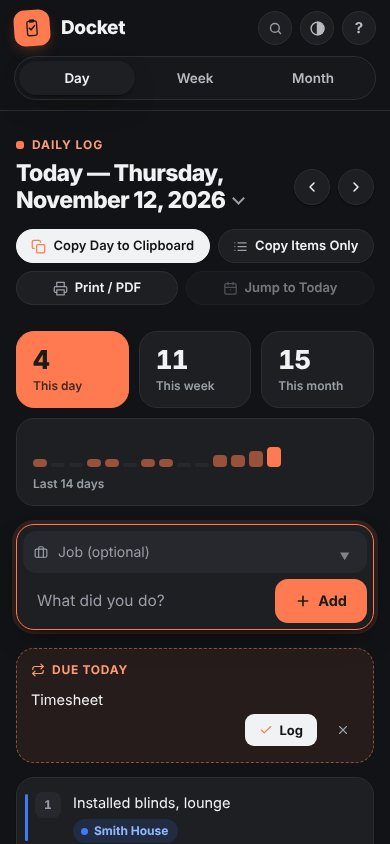
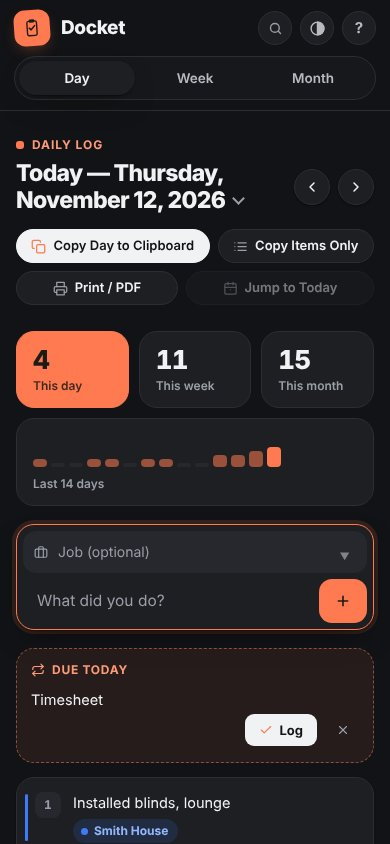
Docket 2.7.2: UAT, UI and UX audit fixes
- Skip to the log link; activity bars out of the Tab order.
- Phones: open at the top without grabbing focus; Add shows just +.
- 24px minimum tap targets: reorder buttons, week job tags, month icon.
- Friendly day names (Thu 12 Nov) in messages and hints.
- No stray dot on an empty month in Recent days.
- New usability test suite; docs and guide updated.

Claude-Session: https://claude.ai/code/session_01H9fPMwvFvgNvqPDu1kdh6L

Changed region(s): [[0.6769, 0.6777, 0.8923, 0.7393]]

diff --git a/src/app.js b/src/app.js
@@ -348,7 +348,13 @@
   var DOW = ["Sun", "Mon", "Tue", "Wed", "Thu", "Fri", "Sat"];
   var LONGDOW = ["Sunday", "Monday", "Tuesday", "Wednesday", "Thursday", "Friday", "Saturday"];
   var MON = ["Jan", "Feb", "Mar", "Apr", "May", "Jun", "Jul", "Aug", "Sep", "Oct", "Nov", "Dec"];
-  function shortDow(iso) { return DOW[dateObj(iso).getDay()]; }
+  // "Thu 12 Nov" (with the year when it isn't this one): how a day is named
+  // in messages and hints, never the raw 2026-11-12.
+  function niceDay(iso) {
+    var d = dateObj(iso);
+    return DOW[d.getDay()] + " " + d.getDate() + " " + MON[d.getMonth()] +
+      (d.getFullYear() !== new Date().getFullYear() ? " " + d.getFullYear() : "");
+  }
 
   // Recurring schedules, weeks shown Monday first. Labels read naturally
   // ("Every Friday", "Weekdays") and are also what the CSV carries.
@@ -483,8 +489,12 @@
   function entryCount(iso) { return (data[iso] || []).length; }
 
   // One clickable bar per day; heights scale to the busiest day shown.
+  // A mouse and touch shortcut only: the bars stay out of the Tab order and
+  // away from screen readers, since Recent days, the arrows and the date
+  // picker reach every day already (14 tiny tab stops helped nobody).
   function fillBars(strip, days, currentIso, maxH) {
     strip.innerHTML = "";
+    strip.setAttribute("aria-hidden", "true");
     var max = 1;
     days.forEach(function (d) { max = Math.max(max, entryCount(d)); });
     days.forEach(function (d) {
@@ -492,9 +502,10 @@
       var b = document.createElement("button");
       b.className = (n > 0 ? "hit" : "") + (d === currentIso ? " cur" : "");
       b.style.height = (n > 0 ? Math.round(4 + (maxH - 4) * n / max) : 3) + "px";
-      b.dataset.tip = shortDow(d) + " " + d + " — " +
+      b.dataset.tip = niceDay(d) + " — " +
         (n === 0 ? "no entries" : n + (n === 1 ? " entry" : " entries")) + " · click to open";
       b.setAttribute("aria-label", "Open " + prettyDate(d));
+      b.tabIndex = -1;
       b.addEventListener("click", function () {
         currentDate = d;
         editingId = null;
@@ -988,7 +999,7 @@
           t.textContent = it.text;
           var b = document.createElement("button");
           b.appendChild(icon("send"));
-          b.dataset.tip = sendTip + " (" + shortDow(currentDate) + " " + currentDate + ")";
+          b.dataset.tip = sendTip + " (" + niceDay(currentDate) + ")";
           b.setAttribute("aria-label", sendTip + ": " + it.text);
           b.addEventListener("click", function () { sendQueueItem(kind, it.id, currentDate); });
           li.appendChild(g);
@@ -1425,7 +1436,7 @@
       toggle.appendChild(document.createTextNode(monthLabel(key + "-01")));
       var badge = document.createElement("span");
       badge.className = "mbadge";
-      badge.textContent = groups[key].filter(function (d) { return (data[d] || []).length > 0; }).length || "·";
+      badge.textContent = groups[key].filter(function (d) { return (data[d] || []).length > 0; }).length || "";
       toggle.appendChild(badge);
       toggle.dataset.tip = entryTotal + " entr" + (entryTotal === 1 ? "y" : "ies") + " — click to " + (open ? "fold" : "unfold") + " the month";
       toggle.addEventListener("click", function () {
@@ -1811,7 +1822,7 @@
     if (editingId === id) editingId = null;
     save();
     render();
-    toast("Moved to " + shortDow(toDay) + " " + toDay, function () {
+    toast("Moved to " + niceDay(toDay), function () {
       removeEntryById(toDay, id);
       if (!data[f.day]) data[f.day] = [];
       data[f.day].splice(Math.min(f.index, data[f.day].length), 0, f.item);
@@ -1910,13 +1921,13 @@
     if (!item) return;
     if (!data[day]) data[day] = [];
     var job = jobById(item.job) ? item.job : null;
-    if (loggedOn(day, item)) { toast("Already logged on " + shortDow(day) + " " + day); return; }
+    if (loggedOn(day, item)) { toast("Already logged on " + niceDay(day)); return; }
     var entry = { id: newId(), text: item.text };
     if (job) entry.job = job;
     data[day].push(entry);
     save();
     render();
-    toast("Logged on " + shortDow(day) + " " + day + " — kept in Recurring", function () {
+    toast("Logged on " + niceDay(day) + " — kept in Recurring", function () {
       removeEntryById(day, entry.id);
       save();
       render();
@@ -2019,7 +2030,7 @@
     saveWishlist();
     save();
     render();
-    toast("Moved to " + shortDow(day) + " " + day, function () {
+    toast("Moved to " + niceDay(day), function () {
       removeEntryById(day, entry.id);
       wishlist.splice(Math.min(i, wishlist.length), 0, item);
       saveWishlist();
@@ -2247,7 +2258,7 @@
       var send = document.createElement("button");
       send.className = "wbtn send";
       send.appendChild(icon("send"));
-      send.dataset.tip = cfg.sendTitle + " (" + shortDow(currentDate) + " " + currentDate + ")";
+      send.dataset.tip = cfg.sendTitle + " (" + niceDay(currentDate) + ")";
       send.setAttribute("aria-label", cfg.sendTitle);
       send.addEventListener("click", function () { sendQueueItem(kind, item.id, currentDate); });
 
@@ -3802,7 +3813,9 @@
 
   if (!storageBlocked && !readStore(HELP_KEY)) {
     openHelp(); // first run: show the guide
-  } else {
+  } else if (!window.matchMedia("(pointer: coarse)").matches) {
+    // ready to type on a computer; on a touch screen the page opens at the
+    // top instead of jumping down to the box (and no keyboard pops up)
     $("newItem").focus();
   }
 })();

diff --git a/tests/usability.spec.js b/tests/usability.spec.js
@@ -1,0 +1,82 @@
+// Usability: keyboard paths, tap targets, phone first impressions, and how
+// days are named in messages. Each check guards a finding from the
+// UAT / UI / UX audit.
+"use strict";
+
+const { test, devices } = require("@playwright/test");
+const { check, iso, seed } = require("./helpers");
+
+const T = iso(0);
+function seedData() {
+  return {
+    "track.jobs.v1": [{ id: "j1", text: "Office fit-out — second floor reception", color: 1 }],
+    "track.tasks.v1": { [T]: [{ id: "a", text: "Quoted the office fit-out, partitions and ceiling grid", job: "j1" }, { id: "b", text: "Admin" }] },
+    "track.wishlist.v1": [{ id: "w", text: "Order paint" }],
+    "track.recurring.v1": [{ id: "r", text: "Site safety check", job: "j1", days: [new Date().getDay()] }]
+  };
+}
+
+test.describe("on a computer", () => {
+  test.use({ viewport: { width: 1360, height: 900 } });
+
+  test("keyboard users can skip straight to the log, past fewer stops", async ({ page }) => {
+    await seed(page, seedData());
+    await page.goto("/");
+    const first = await page.evaluate(() => document.querySelector("body a[href], body button, body input").className);
+    check(first === "skiplink", "“Skip to the log” is the first thing Tab reaches");
+    await page.focus(".skiplink");
+    check(await page.locator(".skiplink").isVisible(), "…and it shows when focused");
+    await page.keyboard.press("Enter");
+    await page.keyboard.press("Tab");
+    check(await page.evaluate(() => document.activeElement.id) === "prevDay", "after skipping, Tab lands on the log's own controls");
+    check(await page.locator("#actStrip button[tabindex='-1']").count() === 14, "the 14 activity bars aren't Tab stops (Recent days and the arrows cover them)");
+    check(await page.locator("#actStrip").getAttribute("aria-hidden") === "true", "…nor read out twice");
+  });
+
+  test("messages name days the way people say them", async ({ page }) => {
+    await seed(page, seedData());
+    await page.goto("/");
+    const row = page.locator("#itemList li.entry", { hasText: "Admin" });
+    await row.hover();
+    await row.locator(".icon.edit").click();
+    await page.fill("li.editing input.edate", iso(-1));
+    await page.click("li.editing .save");
+    const msg = await page.textContent("#toast");
+    const d = new Date(iso(-1) + "T12:00");
+    check(msg.includes("Moved to " + ["Sun", "Mon", "Tue", "Wed", "Thu", "Fri", "Sat"][d.getDay()] + " " + d.getDate() + " "), "“Moved to Wed 11 Nov”, not a raw date: " + msg);
+    check(!/\d{4}-\d{2}-\d{2}/.test(msg), "no YYYY-MM-DD in the message");
+    check(!/\d{4}-\d{2}-\d{2}/.test(await page.locator("#recList .wbtn.send").first().getAttribute("data-tip")), "…or in the ↳ hints");
+  });
+
+  test("an empty month in Recent days shows no stray dot", async ({ page }) => {
+    await seed(page, {});
+    await page.goto("/");
+    check((await page.locator(".mtoggle .mbadge").first().textContent()) === "", "no “·” where a count would be");
+  });
+});
+
+// a touch phone; the preset's browser choice is dropped (it can't change per group)
+const { defaultBrowserType, ...phone } = devices["Pixel 7"]; // eslint-disable-line no-unused-vars
+
+test.describe("on a phone", () => {
+  test.use(phone);
+
+  test("opens at the top, keeps the entry box roomy, and every tap target is big enough", async ({ page }) => {
+    await seed(page, seedData());
+    await page.goto("/");
+    await page.waitForTimeout(300);
+    check(await page.evaluate(() => scrollY) === 0, "the page opens at the top, not scrolled to the entry box");
+    check(await page.evaluate(() => document.activeElement === document.body), "no box grabs focus (no keyboard popping up)");
+    check(!(await page.locator("#addBtn .al").isVisible()), "Add is just a +, so the box keeps its width");
+    check((await page.locator("#newItem").boundingBox()).width >= 180, "the entry box has room to type");
+
+    for (const view of ["day", "week"]) {
+      if (view === "week") await page.click('#viewTabs button[data-view="week"]');
+      const small = await page.evaluate(() => [...document.querySelectorAll('button:not([tabindex="-1"]), input')]
+        .filter((e) => { const r = e.getBoundingClientRect(); return r.width > 0 && r.height > 0 && (r.width < 24 || r.height < 24); })
+        .map((e) => String(e.className) + " " + Math.round(e.getBoundingClientRect().width) + "x" + Math.round(e.getBoundingClientRect().height)));
+      check(small.length === 0, `${view}: every control is at least 24×24 px (WCAG 2.2): ` + small.join(", "));
+    }
+    check(!(await page.evaluate(() => document.documentElement.scrollWidth > innerWidth)), "no sideways scroll");
+  });
+});

diff --git a/src/styles.css b/src/styles.css
@@ -117,6 +117,23 @@ body {
   -webkit-font-smoothing: antialiased;
   text-rendering: optimizeLegibility;
 }
+/* keyboard users can jump past the side panel straight to the log */
+.skiplink {
+  position: fixed;
+  top: 10px;
+  left: 10px;
+  z-index: 100;
+  padding: 10px 16px;
+  border-radius: 10px;
+  background: var(--ink);
+  color: var(--bg);
+  font-weight: 650;
+  text-decoration: none;
+  transform: translateY(-160%);
+}
+.skiplink:focus { transform: none; outline: 2px solid var(--accent); outline-offset: 2px; }
+.main:focus { outline: none; }
+
 ::selection { background: var(--accent); color: var(--accent-ink); }
 ::-webkit-scrollbar { width: 10px; height: 10px; }
 ::-webkit-scrollbar-track { background: transparent; }
@@ -391,7 +408,7 @@ input::placeholder { color: var(--ink-3); }
 .mtoggle .chev { font-size: 9px; width: 10px; transition: transform .18s var(--ease); }
 .mtoggle .chev.open { transform: rotate(90deg); }
 .mtoggle .mbadge { margin-left: auto; letter-spacing: 0; color: var(--ink-3); font-weight: 600; }
-.mgoto { display: grid; place-items: center; border: none; background: none; color: var(--ink-3); padding: 4px 7px; border-radius: var(--r-sm); opacity: 0; }
+.mgoto { display: grid; place-items: center; border: none; background: none; color: var(--ink-3); padding: 7px; border-radius: var(--r-sm); opacity: 0; }
 .mgoto .ic svg { width: 14px; height: 14px; }
 .mgroup:hover .mgoto, .mgoto:focus-visible { opacity: 1; }
 .mgoto:hover { color: var(--accent-text); }
@@ -948,7 +965,7 @@ ol.items li.entry .num:focus-visible { background: var(--accent); color: var(--a
   display: grid;
   place-items: center;
   width: 30px;
-  height: 22px;
+  height: 24px; /* the WCAG 2.2 minimum tap size */
   padding: 0;
   border: none;
   border-radius: 7px;
@@ -958,7 +975,7 @@ ol.items li.entry .num:focus-visible { background: var(--accent); color: var(--a
 }
 .mover button:active { background: var(--accent); color: var(--accent-ink); }
 .mover button:disabled { opacity: .3; }
-.wday ul li .mover button { width: 28px; height: 20px; }
+.wday ul li .mover button { width: 28px; height: 24px; }
 ol.items li.entry .body { flex: 1; min-width: 0; display: flex; align-items: center; gap: 10px; }
 ol.items li.entry .txt { flex: 1; min-width: 0; font-size: 14.5px; white-space: pre-wrap; word-break: break-word; }
 ol.items li.entry .body .jobpill { max-width: 45%; }
@@ -1191,7 +1208,7 @@ li.editing .editrow input.edate { padding: 0 10px; min-width: 0; }
 .wday ul li.mini.drop-before { box-shadow: inset 0 3px 0 var(--accent); }
 .wday ul li.mini.drop-after { box-shadow: inset 0 -3px 0 var(--accent); }
 .wday ul li > span:first-of-type, .wday ul li.mini .mt { flex: 1 1 auto; min-width: 0; word-break: break-word; }
-.wday ul li .jobpill { font-size: 11.5px; height: 22px; }
+.wday ul li .jobpill { font-size: 11.5px; height: 24px; }
 .wday ul li .icon { display: none; width: 28px; height: 28px; }
 .wday ul li:hover .icon, .wday ul li:focus-within .icon { display: grid; }
 .wday ul li.editing { display: block; padding: 10px; margin: 6px 0; border-top: none; }
@@ -1819,6 +1836,8 @@ ul.wishlist li.due .grip { color: var(--accent); }
   .foot-actions { padding-right: 76px; }
 }
 @media (max-width: 600px) {
+  .addcard #addBtn .al { display: none; } /* the + alone, so the entry box keeps its width */
+  .addcard #addBtn { padding: 0 16px; }
   .datenav .bigdate { font-size: 23px; }
   .datenav .bigdate::after { width: 7px; height: 7px; margin-left: 9px; vertical-align: 5px; }
   .datenav .arrow { width: 36px; height: 36px; }

diff --git a/src/index.html b/src/index.html
@@ -19,6 +19,7 @@
 <link rel="stylesheet" href="styles.css">
 </head>
 <body>
+<a class="skiplink" href="#main">Skip to the log</a>
 <header class="mast">
   <div class="brand">
     <span class="glyph" aria-hidden="true"><svg id="brandGlyph" viewBox="0 0 32 32" fill="none"><rect x="9" y="6" width="14" height="21" rx="2.5" stroke="currentColor" stroke-width="2"/><rect x="12" y="3.5" width="8" height="4.5" rx="1.5" fill="currentColor" stroke="none"/><path d="M12 16l2.6 2.6 5.4-5.8" stroke="currentColor" stroke-width="2.2" stroke-linecap="round" stroke-linejoin="round"/></svg></span>
@@ -97,7 +98,7 @@
     </section>
   </aside>
 
-  <main class="main">
+  <main class="main" id="main" tabindex="-1">
     <section class="hero">
       <p class="eyebrow" id="dayTitle"></p>
       <div class="datenav">
@@ -138,7 +139,7 @@
           <input type="text" id="newItem" placeholder="What did you do?" autocomplete="off" maxlength="1000" aria-label="What did you do?">
           <kbd class="enterhint">Enter ↵</kbd>
         </div>
-        <button id="addBtn" aria-label="Add entry"><span class="ic"><svg viewBox="0 0 24 24" fill="none" stroke="currentColor" stroke-width="2.4" stroke-linecap="round"><path d="M12 5v14M5 12h14"/></svg></span>Add</button>
+        <button id="addBtn" aria-label="Add entry"><span class="ic"><svg viewBox="0 0 24 24" fill="none" stroke="currentColor" stroke-width="2.4" stroke-linecap="round"><path d="M12 5v14M5 12h14"/></svg></span><span class="al">Add</span></button>
       </div>
 
       <section class="duebar" id="dueBar" aria-label="Recurring tasks due today" hidden></section>
@@ -248,7 +249,7 @@
       </ul>
 
       <h3><span class="tick">●</span> Keyboard shortcuts</h3>
-      <p>They work whenever you're not typing in a box — press <kbd>Esc</kbd> to leave one:</p>
+      <p>They work whenever you're not typing in a box — press <kbd>Esc</kbd> to leave one. Using <kbd>Tab</kbd>? The first stop is <b>Skip to the log</b>, straight past the side panel.</p>
       <ul>
         <li><kbd>/</kbd> or <kbd>Ctrl</kbd> <kbd>K</kbd> — <b>search</b> every entry, job, wishlist and recurring item; <kbd>↑</kbd> <kbd>↓</kbd> then <kbd>Enter</kbd> jumps to it</li>
         <li><kbd>Ctrl</kbd> <kbd>Z</kbd> — undo the last delete, move, link, archive, skip, import or clear, for a minute after it happens</li>

diff --git a/docs/ARCHITECTURE.md b/docs/ARCHITECTURE.md
@@ -115,6 +115,11 @@ by the renderer. Focus is restored explicitly afterwards (`refocusEntry`).
 - **Reordering is relative.** Moves are "put this entry before or after that
   one" (`placeEntry`), never an index. That's what makes the Job view, which
   shows only part of each day, reorder correctly.
+- **Name days as people say them.** Messages and hints use `niceDay`
+  ("Thu 12 Nov"), never the raw `YYYY-MM-DD` key.
+- **Tap targets are at least 24 × 24 px** on touch screens (WCAG 2.2), and
+  shortcuts that duplicate another route (the activity bars) stay out of the
+  Tab order. `usability.spec.js` checks both.
 - **Colours come from tokens.** Use the CSS custom properties (`--ink`,
   `--surface`, `--accent`, `--job`, …), never literal colours, so both themes
   and the job palette keep working. Muted text (`--ink-3`) is tuned to
@@ -246,7 +251,8 @@ real server in Chromium:
 | `organise` | archiving and restoring jobs, printable day, week, month and job reports |
 | `recurring` | recurring schedules, the Due today strip, schedules and archived jobs through CSV and JSON |
 | `autobackup` | automatic backup to a folder: writing, pruning, remembering, pausing, turning off |
-| `a11y` | axe-core, WCAG 2.1 A/AA, every view and dialog, both themes |
+| `a11y` | axe-core, WCAG 2.1 A/AA, every view and dialog (and the message bar), both themes |
+| `usability` | the skip link and Tab stops, friendly day names in messages, phone first view, 24 px tap targets |
 | `app` | server headers, CSP and compression, installability, offline use, the standalone file |
 
 The suites read as user-acceptance scripts: one realistic flow per test,

diff --git a/CHANGELOG.md b/CHANGELOG.md
@@ -2,6 +2,29 @@
 
 All notable changes to Docket. Versions follow [Semantic Versioning](https://semver.org/).
 
+## [2.7.2] — 2026-11-12
+
+A user-acceptance, UI and UX audit: fixes only, no new features.
+
+### Fixed
+- **Keyboard:** the side panel came before the log in the Tab order, so the entry
+  box was about 40 Tab presses away. The first Tab now offers **Skip to the log**,
+  and the 14 activity bars are no longer Tab stops (Recent days, the arrows and the
+  date picker already reach every day).
+- **Phones:** the page opened scrolled down to the entry box, past the date and
+  totals; it now opens at the top, without grabbing focus. The **Add** button
+  shows just its **+**, so the entry box keeps room to type (on a 320 px screen it
+  read "What did yo…").
+- **Tap targets:** the ▲ ▼ reorder buttons, the Week view's job tags and the
+  month calendar icon in Recent days are now at least 24 × 24 px (WCAG 2.2).
+- **Wording:** messages and hints named days as `Thu 2026-11-12`; they now say
+  **Thu 12 Nov** (with the year when it's another year), like the rest of the app.
+- An empty month in Recent days showed a stray **·** in place of its count.
+
+### Tests
+- New `usability` suite: the skip link and Tab stops, day names in messages, the
+  phone first view, and a 24 px minimum for every control on a phone.
+
 ## [2.7.1] — 2026-11-12
 
 A visual, security and functional audit: fixes only, no new features.

diff --git a/README.md b/README.md
@@ -53,7 +53,7 @@ It comes two ways, from the same code:
 
 ## Accessibility
 
-Docket is built to WCAG 2.1 AA. An automated axe-core check covers every view and dialog in both themes on every test run. Everything works from the keyboard: shortcuts, Tab to any control, and ↑ ↓ to reorder. Every action that needs a drag or a hover has a non-drag, non-hover route, and touch screens get always-visible buttons in place of hover ones.
+Docket is built to WCAG 2.1 AA. An automated axe-core check covers every view and dialog in both themes on every test run. Everything works from the keyboard: shortcuts, Tab to any control, and ↑ ↓ to reorder. The first Tab offers **Skip to the log**, past the side panel. Every action that needs a drag or a hover has a non-drag, non-hover route, and touch screens get always-visible buttons in place of hover ones. Every control is at least 24 × 24 px (WCAG 2.2 target size) and the layout works down to 320 px wide without sideways scrolling; both are checked on every test run.
 
 ## Development
 
